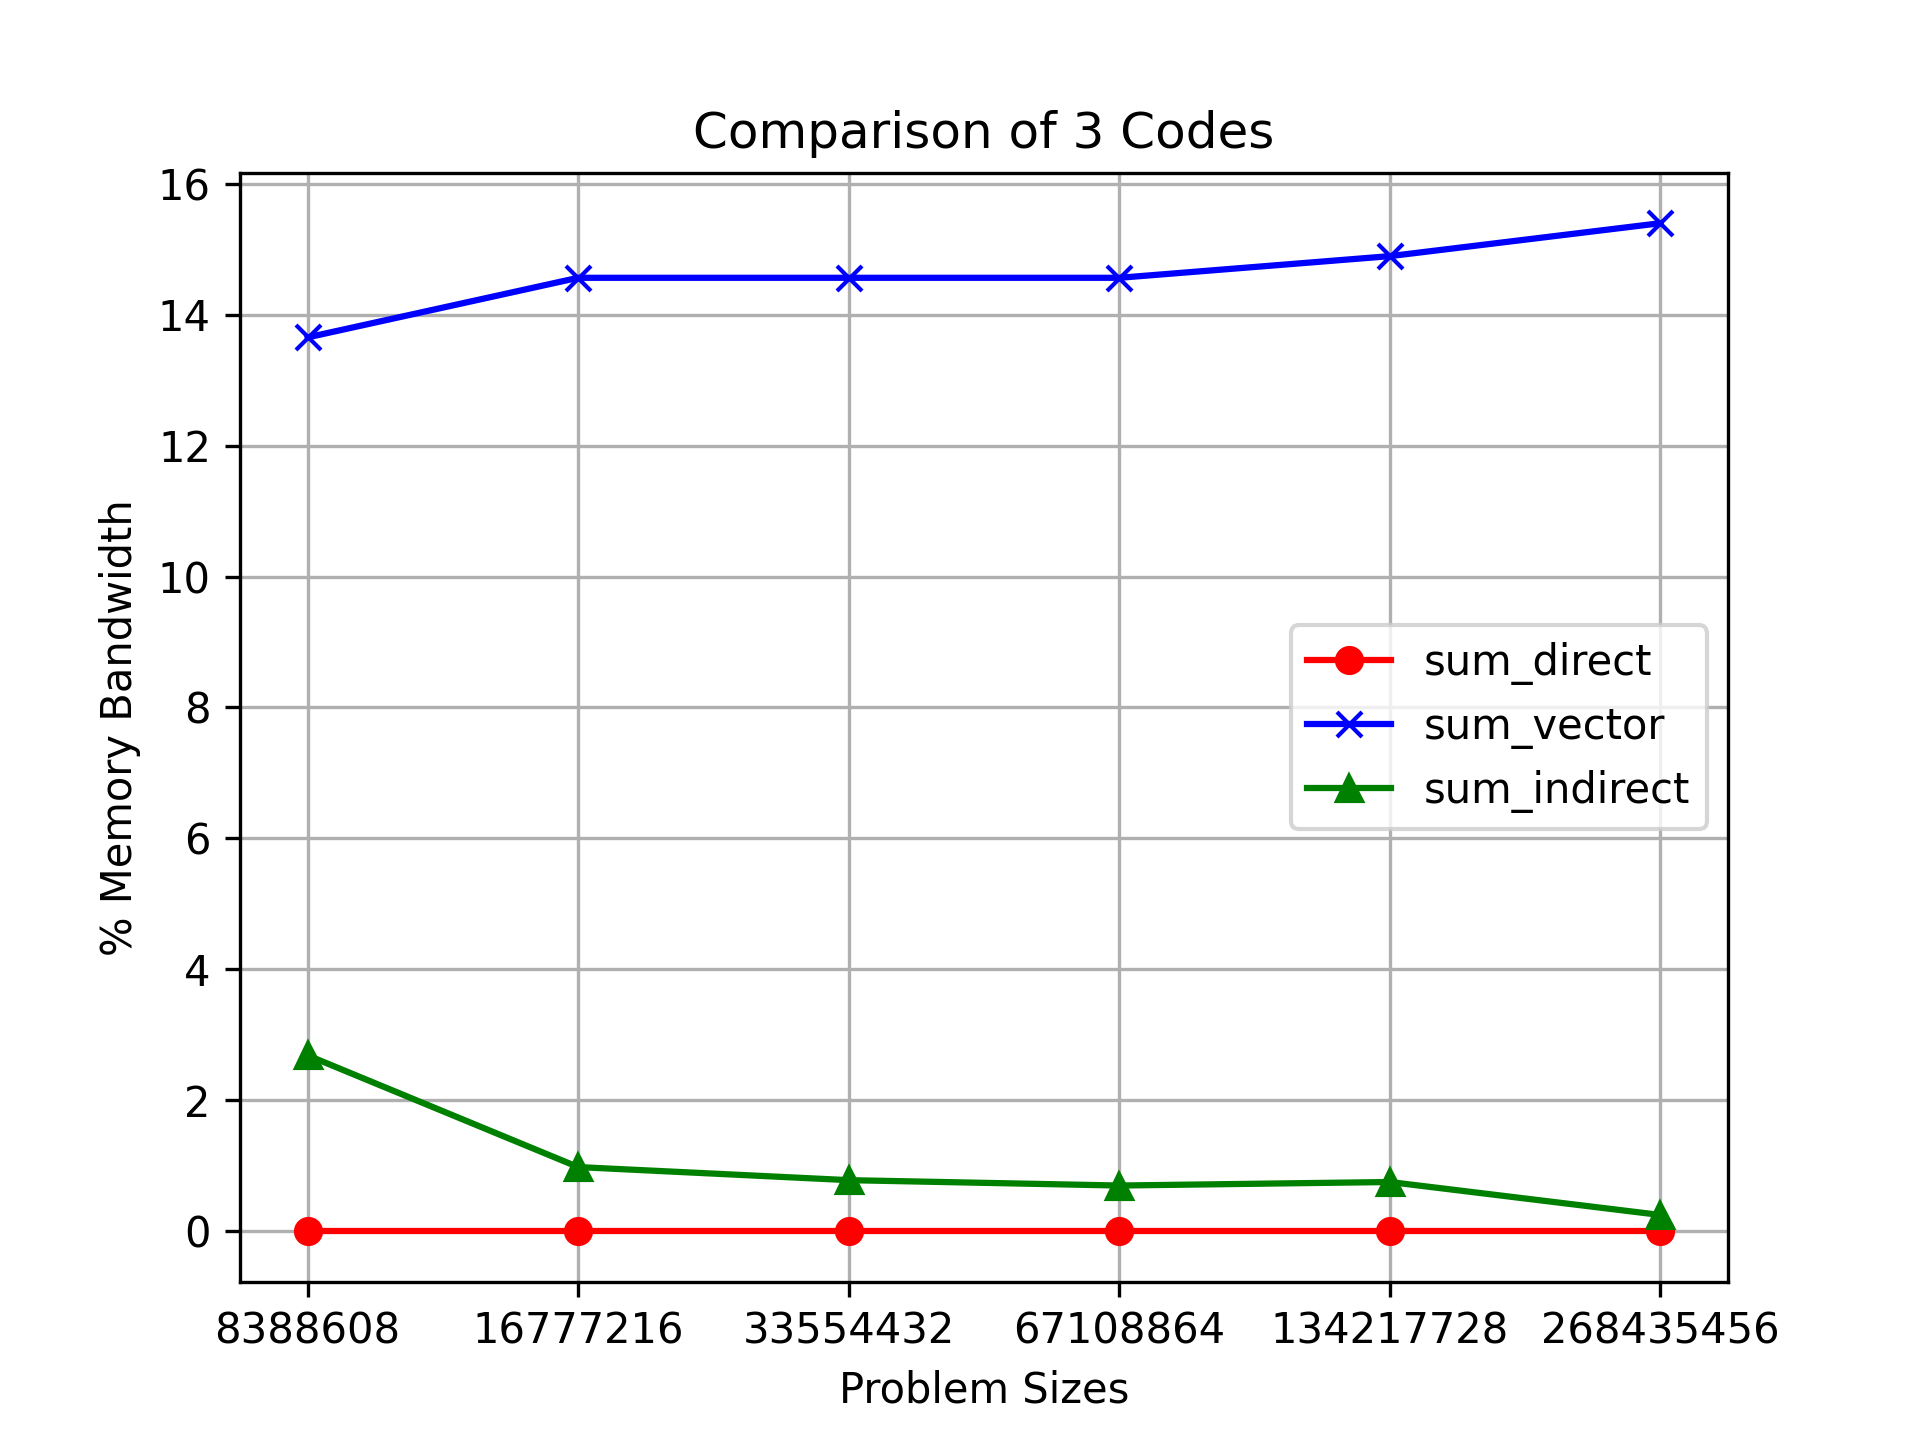
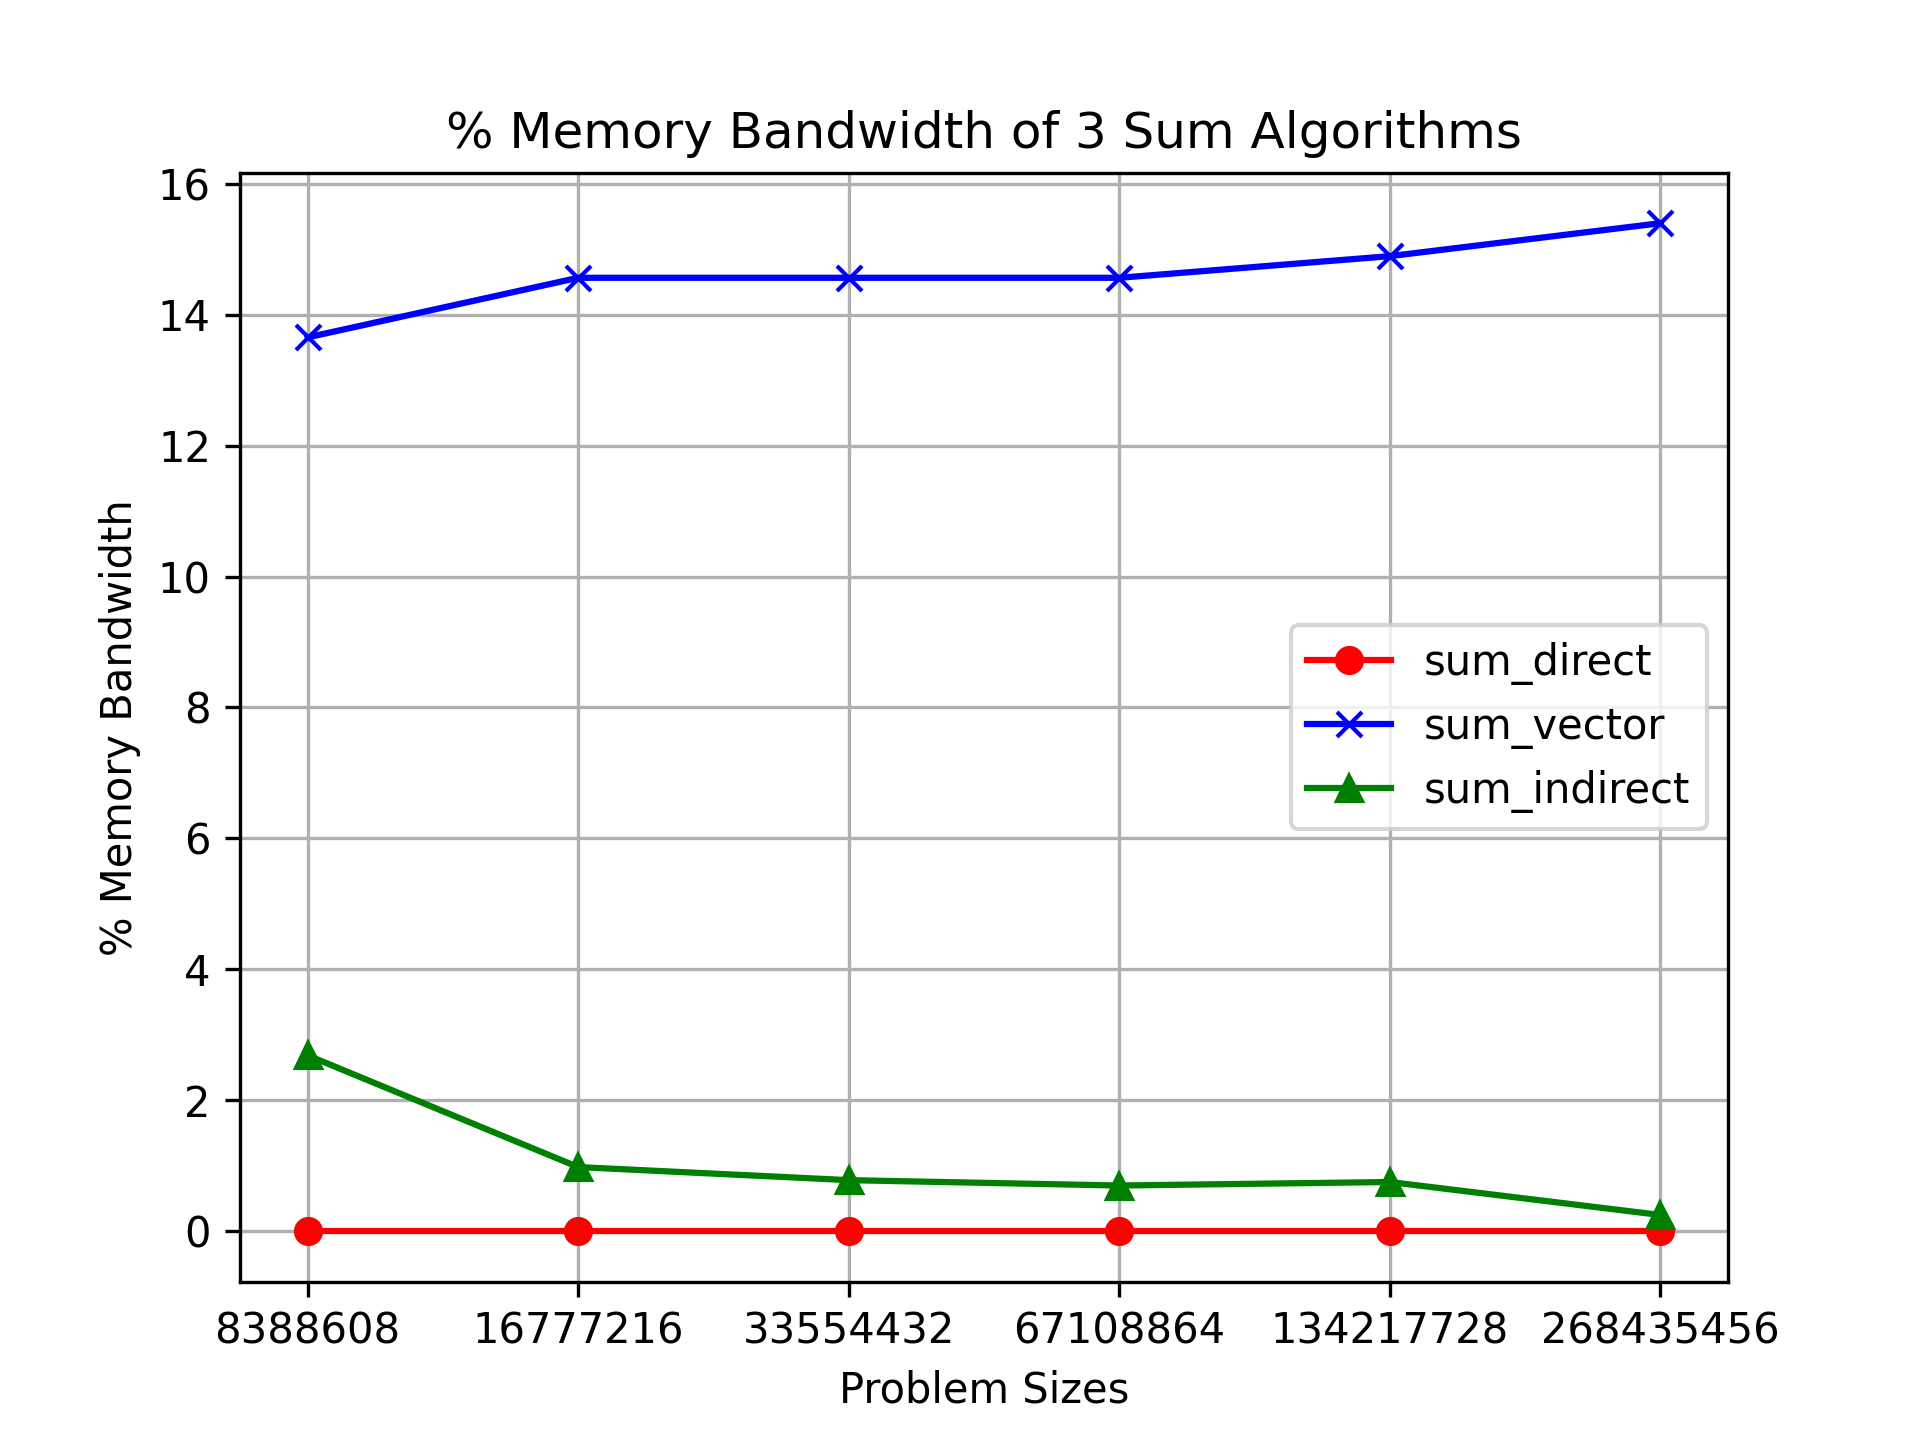
changed titles for pngs

Changed region(s): [[0.2188, 0.0625, 0.7812, 0.125]]

diff --git a/sum_harness_instructional/plot_3vars_savefig.py b/sum_harness_instructional/plot_3vars_savefig.py
@@ -19,7 +19,7 @@ Assumptions: developed and tested using Python version 3.8.8 on macOS 11.6
 import pandas as pd
 import matplotlib.pyplot as plt
 
-plot_fname = "memlatency.png"
+plot_fname = "MFLOP.png"
 
 fname = "sample_data_3vars.csv"
 df = pd.read_csv(fname, comment="#")
@@ -39,7 +39,7 @@ code3_time = df[var_names[3]].values.tolist()
 
 plt.figure()
 
-plt.title("Comparison of 3 Codes")
+plt.title("MFLOP/s of 3 Sum Algorithms")
 
 xlocs = [i for i in range(len(problem_sizes))]
 
@@ -53,7 +53,7 @@ plt.plot(code3_time, "g-^")
 #plt.yscale("log")
 
 plt.xlabel("Problem Sizes")
-plt.ylabel("Memory Latency")
+plt.ylabel("MFLOP/s")
 
 varNames = [var_names[1], var_names[2], var_names[3]]
 plt.legend(varNames, loc="best")
